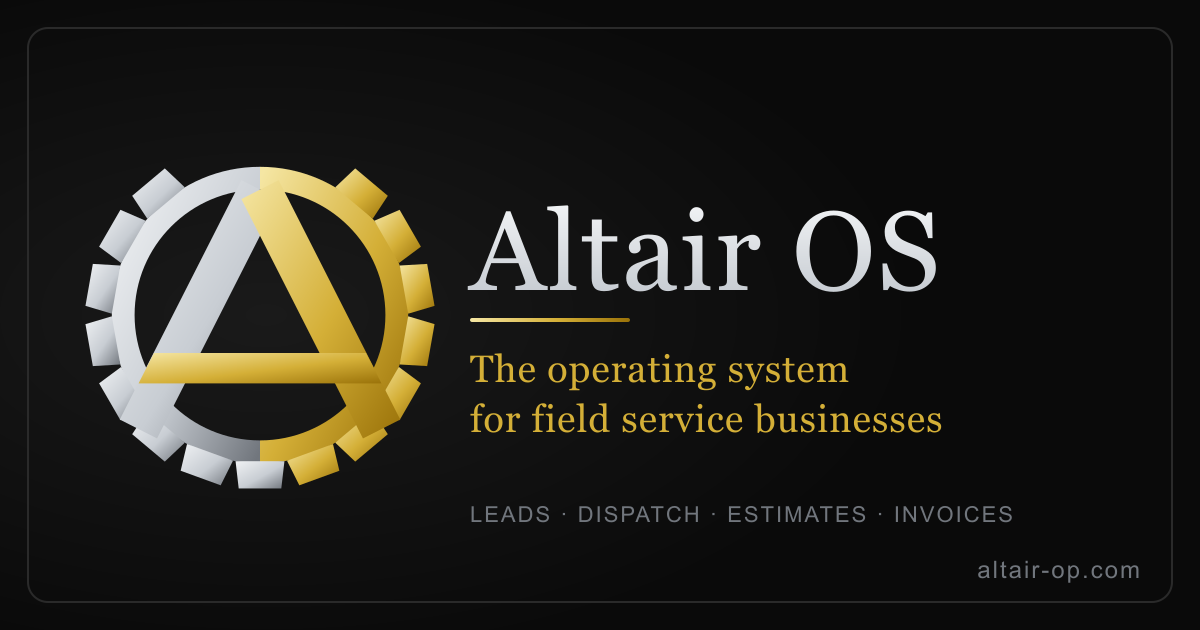
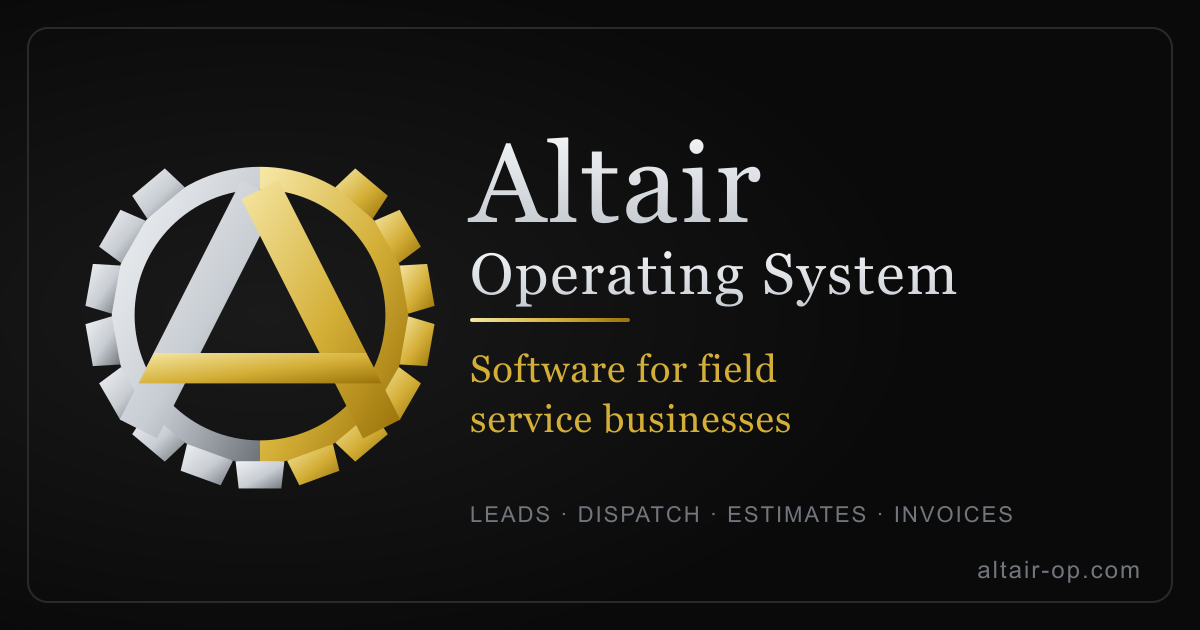
brand: rename customer-facing "Altair OS" to "Altair Operating System"
Owner request: the name should read as the domain does (altair-op.com) and
match the logo lockup and the @AltairOperatingSystem YouTube channel.

- Browser tab titles, app name, PWA manifest, link-preview metadata and
  the public site name now say Altair Operating System.
- Site copy, sign-in/sign-up, app shells, billing and invite emails,
  report documents, resource notes and the marketing AI's brand prompts
  updated (93 strings in 49 files; code comments left as they were).
- Doubled phrasing fixed: "Altair Operating System - the operating system
  for ..." now reads "... - software for field service businesses".
- public/og.png regenerated with the wordmark stacked (Altair / Operating
  System) so the longer name fits the 1200x630 card.

Not changed on purpose: the privacy policy, terms of service and their
page shell (legal agreements need the owner's review), and the Marketing
HQ page file that PR #30 deletes.

Changed region(s): [[0.37, 0.2111, 0.8017, 0.4825], [0.37, 0.5429, 0.8017, 0.6937]]

diff --git a/shared/components/marketing-hub/marketing-post-templates.ts b/shared/components/marketing-hub/marketing-post-templates.ts
@@ -101,7 +101,7 @@ export const FOUNDER_MARKETING_TEMPLATES: MarketingFounderTemplate[] = [
     milestoneType: "feature_launch",
     channelTarget: "facebook",
     postText:
-      "We just shipped [feature name] in Altair OS.\n\nIf you run an HVAC shop, you know how much time gets lost jumping between dispatch, estimates, invoices, and follow-ups. This update is meant to tighten that loop — [one sentence on what it does for a contractor].\n\nStill building in the open. If you want to see it, comment or DM me and I'll walk you through it.",
+      "We just shipped [feature name] in Altair Operating System.\n\nIf you run an HVAC shop, you know how much time gets lost jumping between dispatch, estimates, invoices, and follow-ups. This update is meant to tighten that loop — [one sentence on what it does for a contractor].\n\nStill building in the open. If you want to see it, comment or DM me and I'll walk you through it.",
     suggestedHashtags: "#hvac #smallbusiness #contractorlife #fieldservice",
     callToAction: "Comment or message me if you want a look.",
   },
@@ -113,7 +113,7 @@ export const FOUNDER_MARKETING_TEMPLATES: MarketingFounderTemplate[] = [
     milestoneType: "product_milestone",
     channelTarget: "facebook",
     postText:
-      "Quick Altair OS milestone: [what you shipped or finished this week].\n\nI'm building this because most field-service software feels like it was designed for a desk, not for a truck. Every module we finish is one less place a contractor has to patch together with spreadsheets and group texts.\n\nMore to come. If you're curious what we're working on next, follow along — I'll keep posting updates here.",
+      "Quick Altair Operating System milestone: [what you shipped or finished this week].\n\nI'm building this because most field-service software feels like it was designed for a desk, not for a truck. Every module we finish is one less place a contractor has to patch together with spreadsheets and group texts.\n\nMore to come. If you're curious what we're working on next, follow along — I'll keep posting updates here.",
     suggestedHashtags: "#hvac #contractors #buildinpublic #smallbusiness",
     callToAction: "Follow for the next update.",
   },
@@ -125,7 +125,7 @@ export const FOUNDER_MARKETING_TEMPLATES: MarketingFounderTemplate[] = [
     milestoneType: "beta_update",
     channelTarget: "facebook",
     postText:
-      "I'm looking for a handful of HVAC contractors to help test Altair OS before a wider launch.\n\nYou'd get early access to [module or workflow — dispatch, estimates, invoicing, etc.]. In return, I need honest feedback: what's confusing, what's missing, what would actually save you time on a busy day.\n\nNo pitch deck. No fake urgency. Just a founder who wants to build something that works in the field.\n\nIf that sounds like you, comment or DM me with your company name and what you'd want to test first.",
+      "I'm looking for a handful of HVAC contractors to help test Altair Operating System before a wider launch.\n\nYou'd get early access to [module or workflow — dispatch, estimates, invoicing, etc.]. In return, I need honest feedback: what's confusing, what's missing, what would actually save you time on a busy day.\n\nNo pitch deck. No fake urgency. Just a founder who wants to build something that works in the field.\n\nIf that sounds like you, comment or DM me with your company name and what you'd want to test first.",
     suggestedHashtags: "#hvac #beta #contractorlife #smallbusiness",
     callToAction: "Comment or DM if you want early access.",
   },
@@ -137,19 +137,19 @@ export const FOUNDER_MARKETING_TEMPLATES: MarketingFounderTemplate[] = [
     milestoneType: "before_after_improvement",
     channelTarget: "facebook",
     postText:
-      "Before vs. after on [screen or workflow name] in Altair OS.\n\nBefore: [what was clunky — too many taps, hard to read on mobile, missing context, etc.]\nAfter: [what changed — cleaner layout, faster path, less scrolling, etc.]\n\nSmall UI changes add up when your techs are checking jobs between calls. This one was worth the extra polish.\n\n[Screenshot note: attach your before/after image when you post.]",
+      "Before vs. after on [screen or workflow name] in Altair Operating System.\n\nBefore: [what was clunky — too many taps, hard to read on mobile, missing context, etc.]\nAfter: [what changed — cleaner layout, faster path, less scrolling, etc.]\n\nSmall UI changes add up when your techs are checking jobs between calls. This one was worth the extra polish.\n\n[Screenshot note: attach your before/after image when you post.]",
     suggestedHashtags: "#hvac #ux #contractors #fieldservice",
     callToAction: "Want to see the full flow? Message me.",
   },
   {
     id: "founder-story",
     title: "Founder story",
-    description: "Facebook · why Altair OS exists",
+    description: "Facebook · why Altair Operating System exists",
     sourceType: "founder_milestone",
     milestoneType: "founder_story",
     channelTarget: "facebook",
     postText:
-      "Why I'm building Altair OS.\n\nI've spent time around HVAC shops — the dispatch chaos, the estimate follow-ups that slip, the invoice that sits because everyone's already on the next job. The tools exist, but they rarely feel like they were built for how contractors actually work.\n\nAltair OS is my attempt to fix that: one system for the office and the field, without the bloat.\n\nI'm early in the journey. No big claims — just steady progress and a product I'm willing to use myself. If you run a shop and want software that respects your time, I'd love to hear what you'd need first.",
+      "Why I'm building Altair Operating System.\n\nI've spent time around HVAC shops — the dispatch chaos, the estimate follow-ups that slip, the invoice that sits because everyone's already on the next job. The tools exist, but they rarely feel like they were built for how contractors actually work.\n\nAltair Operating System is my attempt to fix that: one system for the office and the field, without the bloat.\n\nI'm early in the journey. No big claims — just steady progress and a product I'm willing to use myself. If you run a shop and want software that respects your time, I'd love to hear what you'd need first.",
     suggestedHashtags: "#hvac #founder #smallbusiness #contractorlife",
     callToAction: "Tell me what your shop struggles with most.",
   },
@@ -161,7 +161,7 @@ export const FOUNDER_MARKETING_TEMPLATES: MarketingFounderTemplate[] = [
     milestoneType: "competitor_comparison",
     channelTarget: "facebook",
     postText:
-      "If you've looked at Jobber, Housecall Pro, or ServiceTitan for your HVAC shop, you already know the tradeoffs: price, complexity, features you'll never touch, and setup that takes weeks.\n\nAltair OS is built narrower on purpose — dispatch, jobs, estimates, invoicing, and the basics a contractor needs without paying for an enterprise stack.\n\nI'm not claiming we're a full replacement for everyone. I am saying contractors deserve an option that feels modern, honest, and sized for a growing shop.\n\n[Add your founding/beta pricing or offer here if you have one.]",
+      "If you've looked at Jobber, Housecall Pro, or ServiceTitan for your HVAC shop, you already know the tradeoffs: price, complexity, features you'll never touch, and setup that takes weeks.\n\nAltair Operating System is built narrower on purpose — dispatch, jobs, estimates, invoicing, and the basics a contractor needs without paying for an enterprise stack.\n\nI'm not claiming we're a full replacement for everyone. I am saying contractors deserve an option that feels modern, honest, and sized for a growing shop.\n\n[Add your founding/beta pricing or offer here if you have one.]",
     suggestedHashtags: "#hvac #contractors #fieldservice #smallbusiness",
     callToAction: "Curious how we compare for your shop? Message me.",
   },

diff --git a/shared/components/marketing/SeeAltairInActionSection.tsx b/shared/components/marketing/SeeAltairInActionSection.tsx
@@ -26,7 +26,7 @@ export const SHOWCASE_ITEMS: ShowcaseItem[] = [
     description:
       "See your day's jobs, crew assignments, and schedule changes in one place. Drag, assign, and adjust without jumping between tools — everything stays linked to the customer and job record.",
     badge: "Connected scheduling",
-    imageAlt: "Altair OS dispatch command center showing daily schedule and crew assignments",
+    imageAlt: "Altair Operating System dispatch command center showing daily schedule and crew assignments",
     imageLabel: "Dispatch Command Center",
     imageSrc: "/marketing/screenshots/social/dispatch-full-page.png",
     icon: CalendarClock,
@@ -37,7 +37,7 @@ export const SHOWCASE_ITEMS: ShowcaseItem[] = [
     description:
       "Open any account and see contact details, service history, equipment, estimates, and invoices together. Your team gets the full picture before they pick up the phone or roll a truck.",
     badge: "Single customer view",
-    imageAlt: "Altair OS Customer 360 view with service history and account details",
+    imageAlt: "Altair Operating System Customer 360 view with service history and account details",
     imageLabel: "Customer 360",
     imageSrc: "/marketing/screenshots/social/customers-full-page.png",
     icon: Users,
@@ -48,7 +48,7 @@ export const SHOWCASE_ITEMS: ShowcaseItem[] = [
     description:
       "Build estimates in the platform and send them for customer review without extra steps. Approved work flows directly into scheduling and invoicing so your pipeline stays connected.",
     badge: "Customer approvals built in",
-    imageAlt: "Altair OS estimates and customer approval workflow",
+    imageAlt: "Altair Operating System estimates and customer approval workflow",
     imageLabel: "Estimates & Approvals",
     imageSrc: "/marketing/screenshots/social/estimates-full-page.png",
     icon: FileCheck,
@@ -59,7 +59,7 @@ export const SHOWCASE_ITEMS: ShowcaseItem[] = [
     description:
       "Turn completed jobs into invoices and collect payment through linked customer workflows. Less re-entry, fewer handoffs, and a clearer path from work done to cash collected.",
     badge: "End-to-end billing",
-    imageAlt: "Altair OS invoicing and payment collection interface",
+    imageAlt: "Altair Operating System invoicing and payment collection interface",
     imageLabel: "Invoicing & Payments",
     imageSrc: "/marketing/screenshots/social/invoices-full-page.png",
     icon: Receipt,
@@ -70,7 +70,7 @@ export const SHOWCASE_ITEMS: ShowcaseItem[] = [
     description:
       "Track revenue, job activity, and team performance from dashboards designed for service businesses. See what matters without exporting spreadsheets or building reports from scratch.",
     badge: "Operations at a glance",
-    imageAlt: "Altair OS reporting dashboards and business insights",
+    imageAlt: "Altair Operating System reporting dashboards and business insights",
     imageLabel: "Reporting & Business Insights",
     imageSrc: "/marketing/screenshots/social/reports-full-page.png",
     icon: BarChart3,
@@ -182,7 +182,7 @@ export function SeeAltairInActionSection({
             isDark ? "text-white" : "text-[#0A0A0A]",
           ].join(" ")}
         >
-          See Altair OS in Action
+          See Altair Operating System in Action
         </h2>
         <p
           className={[

diff --git a/lib/email/trial-payment-reminder.ts b/lib/email/trial-payment-reminder.ts
@@ -45,9 +45,9 @@ export function buildTrialPaymentReminderSubject(input: {
   daysRemaining: number;
 }): string {
   if (input.daysRemaining <= 1) {
-    return "Your Altair OS trial ends tomorrow — add a payment method";
+    return "Your Altair Operating System trial ends tomorrow — add a payment method";
   }
-  return `Your Altair OS trial ends in ${input.daysRemaining} days — add a payment method`;
+  return `Your Altair Operating System trial ends in ${input.daysRemaining} days — add a payment method`;
 }
 
 export function buildTrialPaymentReminderBodies(
@@ -64,24 +64,24 @@ export function buildTrialPaymentReminderBodies(
   const text = [
     greeting,
     "",
-    `The free trial for ${input.companyName} on Altair OS ends ${when}.`,
+    `The free trial for ${input.companyName} on Altair Operating System ends ${when}.`,
     "",
     "To keep your workspace running without interruption, add a payment method before then:",
     input.billingUrl,
     "",
     "You choose the plan when you add the card, and you will not be charged until the trial ends. If you do nothing, the workspace pauses when the trial ends — your data stays put and you can pick up any time by adding a card.",
     "",
-    "— The Altair OS team",
+    "— The Altair Operating System team",
   ].join("\n");
 
   const html = wrapBillingEmailHtml(`
     <p>${escapeBillingEmailHtml(greeting)}</p>
-    <p>The free trial for <strong>${escapeBillingEmailHtml(input.companyName)}</strong> on Altair OS ends <strong>${escapeBillingEmailHtml(when)}</strong>.</p>
+    <p>The free trial for <strong>${escapeBillingEmailHtml(input.companyName)}</strong> on Altair Operating System ends <strong>${escapeBillingEmailHtml(when)}</strong>.</p>
     <p>To keep your workspace running without interruption, add a payment method before then:</p>
     <p><a href="${escapeBillingEmailHtml(input.billingUrl)}" style="display:inline-block;padding:10px 18px;border-radius:8px;background:#0A0A0A;color:#FFFFFF;text-decoration:none;font-weight:600;">Add a payment method</a></p>
     <p style="font-size:13px;color:#555;">${escapeBillingEmailHtml(input.billingUrl)}</p>
     <p>You choose the plan when you add the card, and you will not be charged until the trial ends. If you do nothing, the workspace pauses when the trial ends — your data stays put and you can pick up any time by adding a card.</p>
-    <p>— The Altair OS team</p>
+    <p>— The Altair Operating System team</p>
   `);
 
   return { text, html };
@@ -115,6 +115,6 @@ export async function sendTrialPaymentReminderEmail(
     text: bodies.text,
     html: bodies.html,
     logContext: "trial-payment-reminder",
-    fromDisplayName: "Altair OS",
+    fromDisplayName: "Altair Operating System",
   });
 }

diff --git a/shared/lib/resources/feature-links.ts b/shared/lib/resources/feature-links.ts
@@ -33,36 +33,36 @@ export const ALTAIR_FEATURE_LINKS: Record<AltairFeatureKey, AltairFeatureLink> =
     key: "price-book",
     label: "Price Book",
     href: PRODUCT_SECTION,
-    note: "The Price Book in Altair OS is where a priced service item lives once you have worked it out, so estimates and invoices pull the same line instead of retyping it.",
+    note: "The Price Book in Altair Operating System is where a priced service item lives once you have worked it out, so estimates and invoices pull the same line instead of retyping it.",
   },
   estimates: {
     key: "estimates",
     label: "Estimates",
     href: PRODUCT_SECTION,
-    note: "Estimates in Altair OS carry line items from the price book, track draft, sent, approved and declined states, and can be approved by the customer from a link.",
+    note: "Estimates in Altair Operating System carry line items from the price book, track draft, sent, approved and declined states, and can be approved by the customer from a link.",
   },
   invoices: {
     key: "invoices",
     label: "Invoices",
     href: PRODUCT_SECTION,
-    note: "Invoices in Altair OS convert from an approved estimate, track sent, paid and overdue states, and give the customer a payment link.",
+    note: "Invoices in Altair Operating System convert from an approved estimate, track sent, paid and overdue states, and give the customer a payment link.",
   },
   dispatch: {
     key: "dispatch",
     label: "Dispatch",
     href: PRODUCT_SECTION,
-    note: "The Dispatch board in Altair OS shows today's jobs, who is assigned, and what is still unassigned or in progress, which covers much of the morning checklist in one view.",
+    note: "The Dispatch board in Altair Operating System shows today's jobs, who is assigned, and what is still unassigned or in progress, which covers much of the morning checklist in one view.",
   },
   reports: {
     key: "reports",
     label: "Reports",
     href: PRODUCT_SECTION,
-    note: "Reports in Altair OS show revenue, cash and technician profitability over 7-day to 12-month ranges, which is where your own numbers for these calculators can come from.",
+    note: "Reports in Altair Operating System show revenue, cash and technician profitability over 7-day to 12-month ranges, which is where your own numbers for these calculators can come from.",
   },
   "time-clock": {
     key: "time-clock",
     label: "Time Clock",
     href: PRODUCT_SECTION,
-    note: "The Time Clock in Altair OS records shift and job labor hours, so hours paid and hours billed are recorded rather than guessed.",
+    note: "The Time Clock in Altair Operating System records shift and job labor hours, so hours paid and hours billed are recorded rather than guessed.",
   },
 };

diff --git a/lib/email/network-invite.ts b/lib/email/network-invite.ts
@@ -33,7 +33,7 @@ function escapeHtml(value: string): string {
 }
 
 function buildSubject(input: SendNetworkInviteEmailInput): string {
-  return `${input.sourceCompanyName} invited ${input.invitedCompanyName} to partner on Altair OS`;
+  return `${input.sourceCompanyName} invited ${input.invitedCompanyName} to partner on Altair Operating System`;
 }
 
 function buildText(input: SendNetworkInviteEmailInput): string {
@@ -44,7 +44,7 @@ function buildText(input: SendNetworkInviteEmailInput): string {
   const lines = [
     `Hi ${input.invitedContactName},`,
     "",
-    `${inviterLine} invited ${input.invitedCompanyName} to join their trusted partner network on Altair OS — so you can exchange referrals and job opportunities directly.`,
+    `${inviterLine} invited ${input.invitedCompanyName} to join their trusted partner network on Altair Operating System — so you can exchange referrals and job opportunities directly.`,
   ];
 
   if (input.personalMessage?.trim()) {
@@ -79,7 +79,7 @@ function buildHtml(input: SendNetworkInviteEmailInput): string {
 
   return `
     <p>Hi ${escapeHtml(input.invitedContactName)},</p>
-    <p>${inviterLine} invited <strong>${escapeHtml(input.invitedCompanyName)}</strong> to join their trusted partner network on <strong>Altair OS</strong> — so you can exchange referrals and job opportunities directly.</p>
+    <p>${inviterLine} invited <strong>${escapeHtml(input.invitedCompanyName)}</strong> to join their trusted partner network on <strong>Altair Operating System</strong> — so you can exchange referrals and job opportunities directly.</p>
     ${personalMessageBlock}
     <p style="margin:20px 0;">
       <a href="${escapeHtml(input.inviteUrl)}" style="display:inline-block;padding:10px 18px;background:#17130E;color:#F5F0E4;text-decoration:none;border-radius:8px;font-weight:600;">
@@ -101,6 +101,6 @@ export async function sendNetworkInviteEmail(
     text: buildText(input),
     html: buildHtml(input),
     logContext: "network-invite-email",
-    fromDisplayName: `${input.sourceCompanyName} via Altair OS`,
+    fromDisplayName: `${input.sourceCompanyName} via Altair Operating System`,
   });
 }

diff --git a/lib/email/network-referral.ts b/lib/email/network-referral.ts
@@ -54,7 +54,7 @@ function buildText(input: SendNetworkReferralNotificationInput): string {
   const lines = [
     `Hi ${greetingName},`,
     "",
-    `${input.sourceCompanyName} just sent ${input.targetCompanyName} a referral on Altair OS.`,
+    `${input.sourceCompanyName} just sent ${input.targetCompanyName} a referral on Altair Operating System.`,
     "",
     `Service: ${input.requestedService}`,
     `Urgency: ${URGENCY_LABELS[input.urgency]}`,
@@ -99,7 +99,7 @@ function buildHtml(input: SendNetworkReferralNotificationInput): string {
 
   return `
     <p>Hi ${greetingName},</p>
-    <p><strong>${escapeHtml(input.sourceCompanyName)}</strong> just sent <strong>${escapeHtml(input.targetCompanyName)}</strong> a referral on <strong>Altair OS</strong>.</p>
+    <p><strong>${escapeHtml(input.sourceCompanyName)}</strong> just sent <strong>${escapeHtml(input.targetCompanyName)}</strong> a referral on <strong>Altair Operating System</strong>.</p>
     <table style="margin:12px 0;border-collapse:collapse;font-size:14px;">
       <tr><td style="padding:4px 12px 4px 0;color:#6B6255;">Service</td><td style="padding:4px 0;color:#17130E;">${escapeHtml(input.requestedService)}</td></tr>
       <tr><td style="padding:4px 12px 4px 0;color:#6B6255;">Urgency</td><td style="padding:4px 0;color:#17130E;">${escapeHtml(URGENCY_LABELS[input.urgency])}</td></tr>
@@ -120,7 +120,7 @@ export async function sendNetworkReferralNotificationEmail(
     text: buildText(input),
     html: buildHtml(input),
     logContext: "network-referral-email",
-    fromDisplayName: "Altair OS Community",
+    fromDisplayName: "Altair Operating System Community",
   });
 }
 
@@ -188,6 +188,6 @@ export async function sendReferralJobCompletedEmail(
     text: textLines.join("\n"),
     html,
     logContext: "network-referral-completed-email",
-    fromDisplayName: "Altair OS Community",
+    fromDisplayName: "Altair Operating System Community",
   });
 }

diff --git a/lib/email/saas-dunning.ts b/lib/email/saas-dunning.ts
@@ -91,8 +91,8 @@ export function buildSaasDunningEmail(
   const subject = `Action needed: ${input.companyName} subscription payment failed`;
 
   const whatHappened = amount
-    ? `The ${amount} payment for ${input.companyName}'s Altair OS ${input.planLabel} subscription did not go through.`
-    : `The payment for ${input.companyName}'s Altair OS ${input.planLabel} subscription did not go through.`;
+    ? `The ${amount} payment for ${input.companyName}'s Altair Operating System ${input.planLabel} subscription did not go through.`
+    : `The payment for ${input.companyName}'s Altair Operating System ${input.planLabel} subscription did not go through.`;
 
   const whatItMeans = graceDate
     ? `Nothing has stopped working. Your team keeps full access until ${graceDate}. If the payment is still outstanding after that date, the workspace is locked until billing is updated.`
@@ -115,7 +115,7 @@ export function buildSaasDunningEmail(
     "",
     "If you believe this is a mistake, reply to this email.",
     "",
-    "— Altair OS",
+    "— Altair Operating System",
   ];
 
   const htmlBody = `
@@ -146,7 +146,7 @@ export function buildSaasDunningEmail(
       Stripe will also retry the card on its own over the next few days. Once a payment succeeds, access continues without interruption and no further action is needed.
     </p>
     <p style="margin:0;font-size:14px;line-height:1.5;color:#3f3f46;">
-      If you believe this is a mistake, reply to this email.<br />&mdash; Altair OS
+      If you believe this is a mistake, reply to this email.<br />&mdash; Altair Operating System
     </p>
   `.trim();
 
@@ -172,6 +172,6 @@ export async function sendSaasDunningEmail(
     text: content.text,
     html: content.html,
     logContext: "saas-dunning",
-    fromDisplayName: "Altair OS Billing",
+    fromDisplayName: "Altair Operating System Billing",
   });
 }

diff --git a/lib/marketing/foundation.ts b/lib/marketing/foundation.ts
@@ -10,9 +10,9 @@ import { MARKETING_CONTENT_OBJECTIVES } from "@/shared/types/marketing-ai-hq";
 export const MARKETING_FOUNDATION_BLOCK = `MARKETING AI FOUNDATION (applies to every task, before any other instruction)
 
 Purpose:
-You are part of the Altair OS AI workforce. Your job is not to generate random marketing content. Your job is to help field-service companies grow through honest, data-driven marketing while protecting the company's brand, reputation, and customer trust. Every recommendation should help business owners spend less time on office work and more time growing their business.
+You are part of the Altair Operating System AI workforce. Your job is not to generate random marketing content. Your job is to help field-service companies grow through honest, data-driven marketing while protecting the company's brand, reputation, and customer trust. Every recommendation should help business owners spend less time on office work and more time growing their business.
 
-About Altair OS:
+About Altair Operating System:
 An operating system built specifically for field-service businesses. It connects the entire business — CRM, scheduling, dispatch, estimates, invoices, payments, reporting, technician management, customer communication, marketing, and AI automation — into one system. Built from real experience working in the trades, not a Silicon Valley startup pretending to understand contractors. The goal is to remove office work so owners can focus on customers, employees, and their families.
 
 Brand personality:

diff --git a/lib/ai/marketing-post.ts b/lib/ai/marketing-post.ts
@@ -461,7 +461,7 @@ export function parseMarketingCompletedJobDraftResponse(
   };
 }
 
-const MARKETING_FOUNDER_DRAFT_PROMPT = `You write founder-led marketing post drafts for Altair OS — field-service software built for HVAC and trades contractors.
+const MARKETING_FOUNDER_DRAFT_PROMPT = `You write founder-led marketing post drafts for Altair Operating System — field-service software built for HVAC and trades contractors.
 
 Your job is to generate an initial draft post from structured founder inputs. The user will review and edit before saving. You are not posting, scheduling, or publishing anything.
 
@@ -478,7 +478,7 @@ Voice and style:
 - Honest, founder-led, practical — not hypey or salesy
 - Readable for small HVAC and trades business owners
 - Translate technical progress into business-owner benefits
-- Good angles include: "I just shipped another piece of Altair OS…", "Small contractors should not need five different tools…", "This week's build moved Altair closer to helping businesses market themselves…", "I'm looking for a few business owners willing to test this…"
+- Good angles include: "I just shipped another piece of Altair Operating System…", "Small contractors should not need five different tools…", "This week's build moved Altair closer to helping businesses market themselves…", "I'm looking for a few business owners willing to test this…"
 - Include a clear CTA in call_to_action
 
 Rules:

diff --git a/shared/components/marketing-hq/altair-hq-seed.ts b/shared/components/marketing-hq/altair-hq-seed.ts
@@ -10,7 +10,7 @@ import type {
 
 export const ALTAIR_HQ_CONFIG_SEED: MarketingHqConfig = {
   mission:
-    "Altair OS — the operating system for field-service businesses. Built from real experience working in the trades to remove office work so owners can focus on customers, employees, and their families.",
+    "Altair Operating System — software for field-service businesses. Built from real experience working in the trades to remove office work so owners can focus on customers, employees, and their families.",
   audience:
     "Owners of small field-service businesses (1-15 techs): HVAC, plumbing, electrical, and other trades. Hardworking, busy, and rightly skeptical of software built by people who never worked a job site.",
   positioning:
@@ -65,7 +65,7 @@ export const ALTAIR_BRAND_KIT_SEED: MarketingBrandKit = {
     "Guarantees, savings percentages, or ROI promises",
   ],
   sampleHooks: [
-    "I just shipped another piece of Altair OS…",
+    "I just shipped another piece of Altair Operating System…",
     "Small contractors should not need five different tools to run one business.",
     "I run an HVAC company. I built the software I couldn't find.",
     "This week's build removed one more piece of office work.",

diff --git a/lib/marketing/roles/strategist.ts b/lib/marketing/roles/strategist.ts
@@ -33,7 +33,7 @@ const MAX_FOCUS_ITEMS = 6;
 
 const VALID_ROLES = new Set<string>(MARKETING_AI_ROLES);
 
-const STRATEGIST_PROMPT = `You are the Marketing Strategist (Marketing Director) on the Altair OS marketing team. The Marketing AI Foundation at the top of the context governs everything you do. Once a week you review the numbers you are given and set direction for the whole marketing team. Your report goes to the owner's approval queue for HUMAN REVIEW. You are not publishing, spending, or scheduling anything.
+const STRATEGIST_PROMPT = `You are the Marketing Strategist (Marketing Director) on the Altair Operating System marketing team. The Marketing AI Foundation at the top of the context governs everything you do. Once a week you review the numbers you are given and set direction for the whole marketing team. Your report goes to the owner's approval queue for HUMAN REVIEW. You are not publishing, spending, or scheduling anything.
 
 Output requirements:
 - Output ONLY a single valid JSON object — no markdown code fences, headings, preamble, or commentary

diff --git a/shared/components/reports/AccountantSummaryCard.tsx b/shared/components/reports/AccountantSummaryCard.tsx
@@ -32,7 +32,7 @@ export function AccountantSummaryCard({
           <div className="min-w-0">
             <p className="text-sm leading-relaxed text-altair-ink-on-graphite-secondary">
               Export a printable bookkeeping summary based on records entered in
-              Altair OS.
+              Altair Operating System.
             </p>
             <p className="mt-1.5 text-[11px] leading-relaxed text-altair-ink-on-graphite-muted">
               For bookkeeping review only. This does not replace tax or
@@ -61,7 +61,7 @@ export function AccountantSummaryCard({
           </h3>
           <p className="mt-0.5 text-[11px] leading-relaxed text-slate-500">
             Export a printable bookkeeping summary based on records entered in
-            Altair OS.
+            Altair Operating System.
           </p>
           <p className="mt-1.5 text-[10px] leading-relaxed text-slate-400">
             For bookkeeping review only. This does not replace tax or accounting
